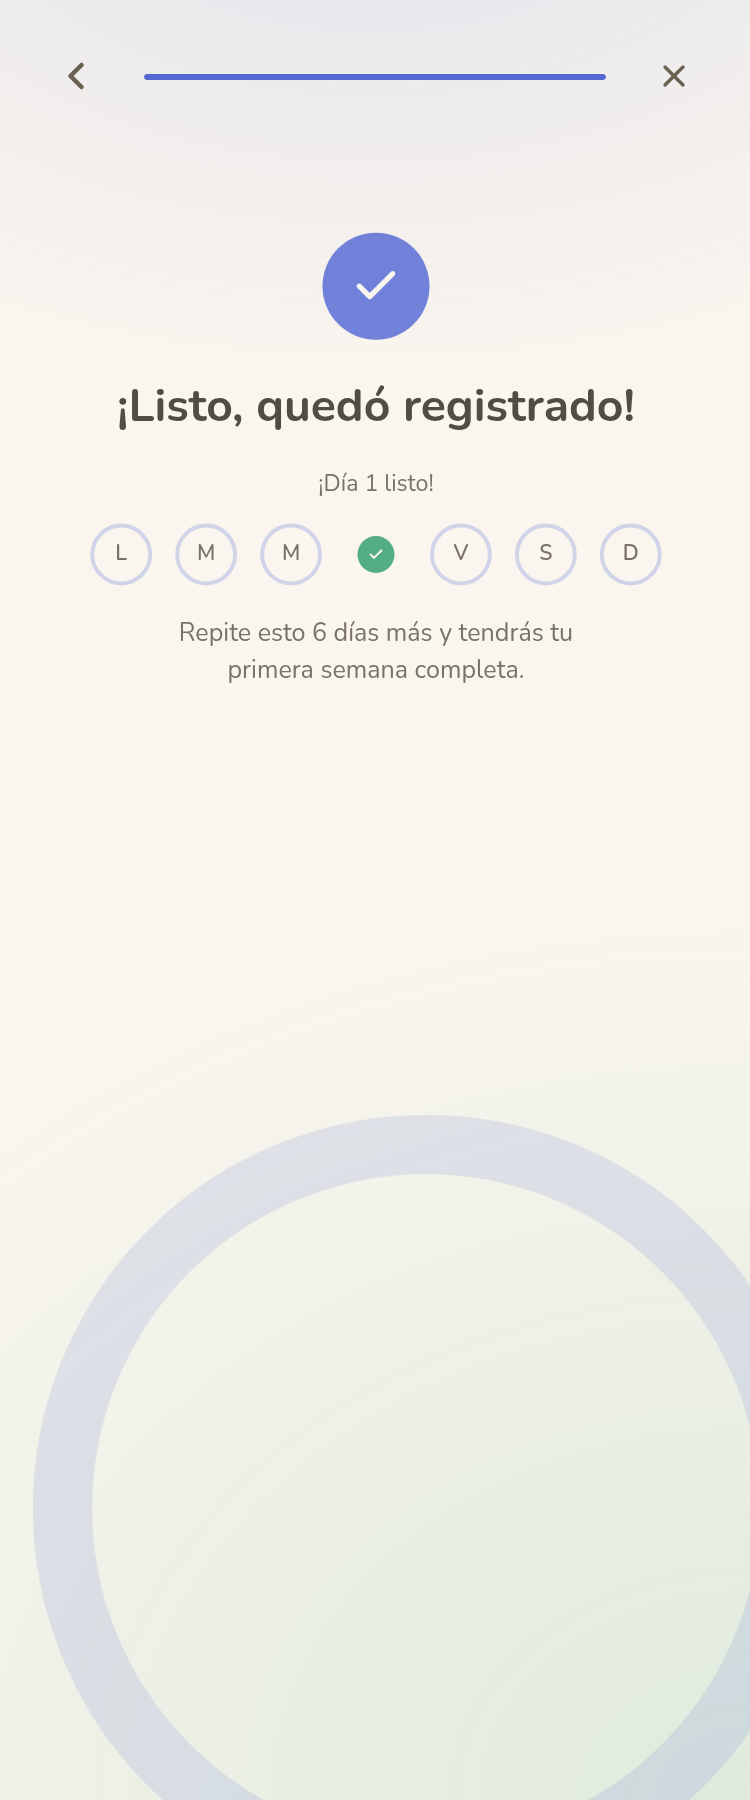
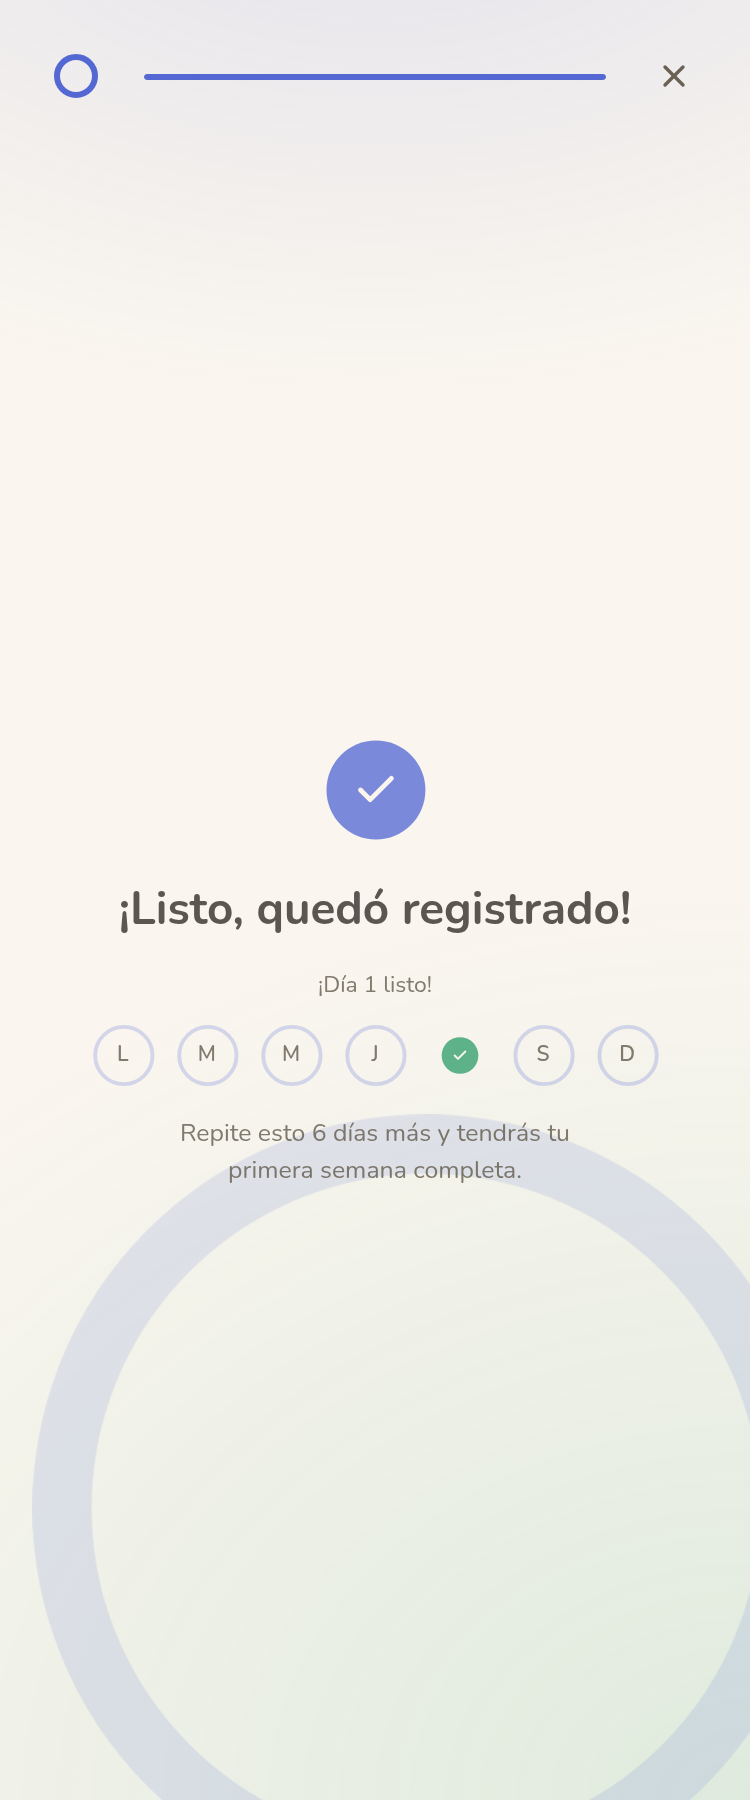
fix: centrar celebración, quitar condición de carrera y ajustar bounce a 0.1
- La frase de refuerzo de la ronda 11 era un parche de copy sobre un
  problema de layout: la celebración seguía siendo, en proporción, el
  tramo más vacío del funnel (38% de fondo plano medido). Ahora su bloque
  usa flex-1 + justify-center dentro de FunnelScreen, centrándose en el
  espacio real disponible en vez de quedar top-anchored con sobrante fijo.
- Condición de carrera real: con comprometido=true, el botón "Atrás" del
  header seguía activo durante los 700ms antes de router.push('/paywall')
  — si el usuario lo tocaba en esa ventana, el paso cambiaba pero la
  navegación a /paywall ocurría igual, ignorando su intención de quedarse.
  Ahora el header no pasa onBack durante la celebración.
- Los 3 bounce en 0.15 (ronda 11) seguían excediendo por 0.05 el rango
  0-0.1 que FICHA-ARTE.md declara explícitamente dos veces — bajados a 0.1.

Nota: el defecto de contraste de --text-secondary que reportó esta ronda
cita el valor viejo (#8c8172, 3.55:1) — el token actual es #6b6152
(~5.6-6:1), ya corregido en una sesión anterior (ver tokens.css línea 27).
Falso positivo, no requiere cambio.

Claude-Session: https://claude.ai/code/session_013BYtLeMwZuWh58hVzwvyD5

diff --git a/app/onboarding/page.tsx b/app/onboarding/page.tsx
@@ -202,47 +202,45 @@ export default function Onboarding() {
   } else {
     // ── Paso 6: compromiso (ritual pre-loading, 50 §C3bis) ──
     pantalla = (
-      <FunnelScreen progreso={progreso} onBack={retroceder} onClose={salir} stepKey={paso}>
-        <div className="flex flex-col items-center gap-10 pt-4 text-center">
-          {comprometido ? (
-            <motion.div
-              initial={{ opacity: 0, scale: reduce ? 1 : 0.85 }}
-              animate={{ opacity: 1, scale: 1 }}
-              transition={{ duration: reduce ? 0.15 : 0.45, ease: [0.16, 1, 0.3, 1] }}
-              className="flex flex-col items-center gap-4"
+      <FunnelScreen progreso={progreso} onBack={comprometido ? undefined : retroceder} onClose={salir} stepKey={paso}>
+        {comprometido ? (
+          <motion.div
+            initial={{ opacity: 0, scale: reduce ? 1 : 0.85 }}
+            animate={{ opacity: 1, scale: 1 }}
+            transition={{ duration: reduce ? 0.15 : 0.45, ease: [0.16, 1, 0.3, 1] }}
+            className="flex flex-1 flex-col items-center justify-center gap-4 text-center"
+          >
+            <motion.span
+              aria-hidden="true"
+              initial={{ scale: reduce ? 1 : 0.6 }}
+              animate={{ scale: 1 }}
+              transition={{ duration: reduce ? 0.1 : 0.4, type: 'spring', bounce: 0.1 }}
+              className="inline-flex size-16 items-center justify-center rounded-full bg-[var(--accent)]"
             >
-              <motion.span
-                aria-hidden="true"
-                initial={{ scale: reduce ? 1 : 0.6 }}
-                animate={{ scale: 1 }}
-                transition={{ duration: reduce ? 0.1 : 0.4, type: 'spring', bounce: 0.15 }}
-                className="inline-flex size-16 items-center justify-center rounded-full bg-[var(--accent)]"
-              >
-                <Check size={30} strokeWidth={2.5} color="var(--bg)" aria-hidden="true" />
-              </motion.span>
+              <Check size={30} strokeWidth={2.5} color="var(--bg)" aria-hidden="true" />
+            </motion.span>
+            <h2 className="text-balance text-[24px] font-bold leading-[1.2] text-[var(--text-primary)] [font-family:var(--font-display)]">
+              ¡Listo, quedó registrado!
+            </h2>
+            <SemanaPreview diaCompletado={(new Date().getDay() + 6) % 7} />
+            <p className="max-w-[30ch] text-[13px] text-[var(--text-tertiary)]">
+              Repite esto 6 días más y tendrás tu primera semana completa.
+            </p>
+          </motion.div>
+        ) : (
+          <div className="flex flex-col items-center gap-10 pt-4 text-center">
+            <div>
               <h2 className="text-balance text-[24px] font-bold leading-[1.2] text-[var(--text-primary)] [font-family:var(--font-display)]">
-                ¡Listo, quedó registrado!
+                ¿Lista para tu primer Semáforo?
               </h2>
-              <SemanaPreview diaCompletado={(new Date().getDay() + 6) % 7} />
-              <p className="max-w-[30ch] text-[13px] text-[var(--text-tertiary)]">
-                Repite esto 6 días más y tendrás tu primera semana completa.
+              <p className="mt-2 max-w-[34ch] text-[15px] text-[var(--text-secondary)]">
+                Mantén presionado para comprometerte a marcarlo todos los días esta semana.
               </p>
-            </motion.div>
-          ) : (
-            <>
-              <div>
-                <h2 className="text-balance text-[24px] font-bold leading-[1.2] text-[var(--text-primary)] [font-family:var(--font-display)]">
-                  ¿Lista para tu primer Semáforo?
-                </h2>
-                <p className="mt-2 max-w-[34ch] text-[15px] text-[var(--text-secondary)]">
-                  Mantén presionado para comprometerte a marcarlo todos los días esta semana.
-                </p>
-              </div>
-              <HoldButton onCommit={comprometerse} label="Me comprometo esta semana" />
-              <SemanaPreview />
-            </>
-          )}
-        </div>
+            </div>
+            <HoldButton onCommit={comprometerse} label="Me comprometo esta semana" />
+            <SemanaPreview />
+          </div>
+        )}
       </FunnelScreen>
     );
   }

diff --git a/components/funnel/ui.tsx b/components/funnel/ui.tsx
@@ -171,7 +171,7 @@ export function OptionChip({
         aria-hidden="true"
         initial={false}
         animate={{ scale: activo ? 1 : 0.5, opacity: activo ? 1 : 0 }}
-        transition={{ duration: 0.2, type: 'spring', bounce: 0.15 }}
+        transition={{ duration: 0.2, type: 'spring', bounce: 0.1 }}
         className="inline-flex size-5 shrink-0 items-center justify-center rounded-full bg-[var(--accent)]"
       >
         <Check size={13} strokeWidth={2.5} color="var(--bg)" aria-hidden="true" />
@@ -243,7 +243,7 @@ export function SemanaPreview({ diaCompletado }: { diaCompletado?: number }) {
               key={i}
               initial={{ scale: 0.6 }}
               animate={{ scale: 1 }}
-              transition={{ type: 'spring', bounce: 0.15, duration: 0.4, delay: 0.3 }}
+              transition={{ type: 'spring', bounce: 0.1, duration: 0.4, delay: 0.3 }}
               aria-hidden="true"
               className="flex size-8 items-center justify-center rounded-full bg-[var(--accent-2)]"
             >

diff --git a/docs/revisiones/onboarding-veredicto.md b/docs/revisiones/onboarding-veredicto.md
@@ -1,41 +1,14 @@
-# VEREDICTO revisor-visual — onboarding (ronda 11)
+# VEREDICTO revisor-visual — onboarding
 Fecha: 2026-09-17 00:00
 Screenshot: docs/revisiones/onboarding-375.png (+ onboarding-paso2-375.png, onboarding-paso6-375.png, onboarding-celebracion-375.png)
-Usabilidad: 34/40
+Usabilidad: 31/40
 Craft: 14/20
 Copy (si vende): N-A
 Fidelidad (si hubo referencia): N-A
 Veredicto: NO LISTA
 Top defectos:
-1. Celebración (app/onboarding/page.tsx L206-227, SemanaPreview en components/funnel/ui.tsx L232-265) — sigue siendo el vacío más grande del funnel (menos contenido que el paso 6 previo al compromiso) → sumar 1 frase de refuerzo/próximo paso bajo el tracker.
-2. Checkmarks con spring bounce 0.4-0.5 (ui.tsx L174/L246, page.tsx L218) — viola la propia FICHA-ARTE ("spring casi sin rebote 0-0.1") y el umbral del SO (41-CRAFT-DE-ANIMACION.md: ">0.3 se ve de juguete") → bajar a bounce 0.1-0.2.
-3. VistaSemaforo (ui.tsx L200-219) usa íconos en círculo completo mientras OptionChip (ui.tsx L161-168) usa el mismo patrón en squircle — mismo componente conceptual, dos formas distintas en la misma pantalla → unificar a rounded-[var(--radius-button)].
-4. guardarRespuestas (lib/onboarding.ts L87-93) traga en silencio el fallo de localStorage (privado/bloqueado) sin avisar ni degradar visiblemente → agregar aviso o guardar fallback en memoria con indicación mínima.
-5. Transición de celebración → /paywall (page.tsx L44, router.push tras 700ms) es un corte seco sin fade de salida → animar exit con AnimatePresence antes de navegar.
-
-## Detalle usabilidad (Nielsen, /4 c/u)
-h1 Visibilidad del estado: 3 — feedback fuerte en cada tap (chip, hold-button con anillo real, aria-live throttled); el corte final a /paywall es abrupto.
-h2 Lenguaje del usuario: 4 — cero jerga, copy conversacional y en el idioma de Camila.
-h3 Control y libertad: 4 — ConfirmSalir con Escape=quedarse, back por paso, se puede re-elegir una respuesta yendo atrás (verificado en código: guardarYAvanzar sobreescribe el campo).
-h4 Consistencia: 3 — mismo OptionChip/FunnelButton en las 4 preguntas; pero icono-en-contenedor cambia de forma entre OptionChip y VistaSemaforo (defecto 3).
-h5 Prevención de errores: 4 — bloqueado en doble-tap (OptionChip), guardas contra key-repeat en HoldButton, disabled con opacity clara.
-h6 Reconocer vs recordar: 4 — opciones siempre visibles, tracker de semana visual, nada que memorizar entre pasos.
-h7 Flexibilidad: 3 — soporte de teclado real en HoldButton (Enter/Espacio) y botones nativos, pero sin atajos adicionales para usuario experto.
-h8 Estético y minimalista: 2 — 1 acción primaria por pantalla y VistaSemaforo se gana su lugar (ya no es filler), pero el vacío de la celebración y el bounce fuera de tono rompen "movimiento consistente consigo mismo" — un usuario cualquiera nota el vacío al ver la captura.
-h9 Errores con solución: 3 — no hay estados de error visibles en el flujo normal, pero el fallo silencioso de localStorage (defecto 4) es un hueco real, aunque de baja incidencia.
-h10 Ayuda contextual: 4 — VistaSemaforo ahora enseña el mecanismo con texto distinto por paso (contexto: dolor/momento/intento/meta verificado en CONTEXTO_SEMAFORO), ya no se siente repetido.
-
-## Detalle craft (/4 c/u)
-Jerarquía: 3 — título > subtítulo > opción > label se lee claro al entrecerrar los ojos; VistaSemaforo compite un poco de peso visual con el bloque principal.
-Profundidad: 3 — mesh + anillo fijo + shadow-1 en cards da 2 planos claros; sin plano "hundido" pero no hace falta en esta pantalla (no hay inputs).
-Identidad ownable: 3 — Nunito + semáforo + anillo de respiración + paleta crema/azul-lila no coincide con los clones vetados (Capítulo/Umbral) — pasa el test anti-clon.
-Movimiento: 2 — stagger de entrada, dibujado del anillo del hold-button, transición de pasos y modal suave están todos presentes y correctos; pero el bounce 0.4-0.5 en las 4 celebraciones (defecto 2) es una desviación medida y documentada contra la propia ficha y contra el criterio del SO.
-Encaje óptico: 3 — radios idénticos (22px card / 16px botón, verificado en tokens.css), padding simétrico, círculos de días centrados; sin desencajes evidentes en las 4 capturas.
-
-## Verificación de los 3 defectos puntuales de la ronda 10
-1. VistaSemaforo repetida idéntica → RESUELTO. `CONTEXTO_SEMAFORO` (ui.tsx L189-194) da texto distinto por paso, confirmado en código y en las capturas del paso 0 ("Así funciona: cada día, marcas cuál de los dos te describe") vs paso 2 ("Justo en ese momento del día, un solo toque basta").
-2. Copy que invitaba a tocar algo inerte → RESUELTO. El copy pasó de imperativo/interactivo a descriptivo en las 4 variantes; los círculos no tienen `<button>`, `cursor-pointer` ni `whileTap`, y viven bajo el encabezado explícito "Así se ve tu Semáforo del Gasto" que los enmarca como ejemplo, no como control. (Queda un matiz menor no bloqueante: el anillo + punto relleno sigue usando el mismo lenguaje visual de un selector, lo cual un ojo entrenado podría seguir asociando con algo tocable — no amerita defecto propio, es refinamiento fino).
-3. Celebración con el vacío más grande sin contenido → PARCIALMENTE RESUELTO. `SemanaPreview` con `diaCompletado` (ui.tsx L232-265) sí agrega contenido real (check verde animado en el día de hoy), pero comparado con el paso 6 previo al compromiso (que tiene más bloques: headline+subtítulo+hold-button+label+tracker), la celebración termina su contenido notablemente antes, dejando el tramo de cream vacío más largo de las 4 capturas antes de que aparezca el anillo decorativo fijo. Ver defecto TOP #1.
-
-## Nota sobre el resto de hallazgos
-Los defectos 1 y 2 son concretos y medibles (asimetría de contenido visible en captura; valor numérico de bounce documentado contra la propia FICHA-ARTE y contra 41-CRAFT-DE-ANIMACION.md) — no son gusto personal. Los defectos 3, 4 y 5 sí son ya refinamiento fino: dos revisores podrían discrepar en si ameritan bajar puntaje o solo anotarse para la próxima pasada. El gate de carga cognitiva (≤4-5 ítems, ≤4 opciones, 1 acción primaria, nada que recordar entre pantallas, texto en 3-4 líneas, "qué sigue" obvio, cero elementos fantasma) pasa completo — no hay sobrecarga cognitiva en esta pantalla.
+1. [Todo el funnel, tokens de FICHA-ARTE.md] --text-secondary (#8C8172) sobre --bg (#FAF6EF) da ~3.55:1 de contraste, por debajo del mínimo 4.5:1 (Regla UX #10) para texto normal de 14px. Afecta todos los subtítulos bajo cada pregunta y probablemente --text-tertiary (aún más claro) en la frase de refuerzo y labels del SemanaPreview. Fix: oscurecer el token hasta ≥4.5:1 sobre el fondo crema.
+2. [app/onboarding/page.tsx L206-230, celebración] La pantalla de celebración sigue siendo la más vacía del funnel pese al fix de ronda 11: contenido termina en ~y670px de 1136px totales, dejando ~430px (38%) de fondo plano antes del anillo decorativo. La frase de refuerzo agregada es un parche de copy que no reparte el espacio vertical disponible (el contenedor no usa flex-1/justify-center ni añade un bloque de valor real). Fix: centrar verticalmente el bloque o sumar contenido real (teaser del paywall) que ocupe ese tercio inferior.
+3. [app/onboarding/page.tsx L41-45 + L202-247] Condición de carrera de ~700ms: al comprometerse(), el setTimeout hacia /paywall corre igual aunque el usuario toque "Atrás" (onBack sigue activo durante comprometido=true) — el back cambia el paso pero el router.push lo sobrescribe 700ms después, ignorando la intención de quedarse. Fix: ocultar/deshabilitar onBack cuando comprometido===true, o cancelar el timeout si el usuario navega.
+4. [components/funnel/ui.tsx L174 y L246, app/onboarding/page.tsx L218] Confirmado: los 3 checkmarks usan bounce:0.15 (defecto de ronda 11 con bounce 0.4/0.5 SÍ resuelto, ya bajo el umbral "juguete" de 41-CRAFT-DE-ANIMACION >0.3). Nota menor: sigue 0.05 por encima del rango que FICHA-ARTE.md declara dos veces ("spring casi sin rebote 0–0.1"); visualmente imperceptible, no bloquea el veredicto por sí solo, pero desalinea el código del contrato de la ficha.
+5. [H9, general] Sin evidencia en el código revisado de manejo de errores (fallo de localStorage en guardarRespuestas, fallo de navegación a /paywall). Riesgo bajo por ser flujo 100% local, pero no verificado.
